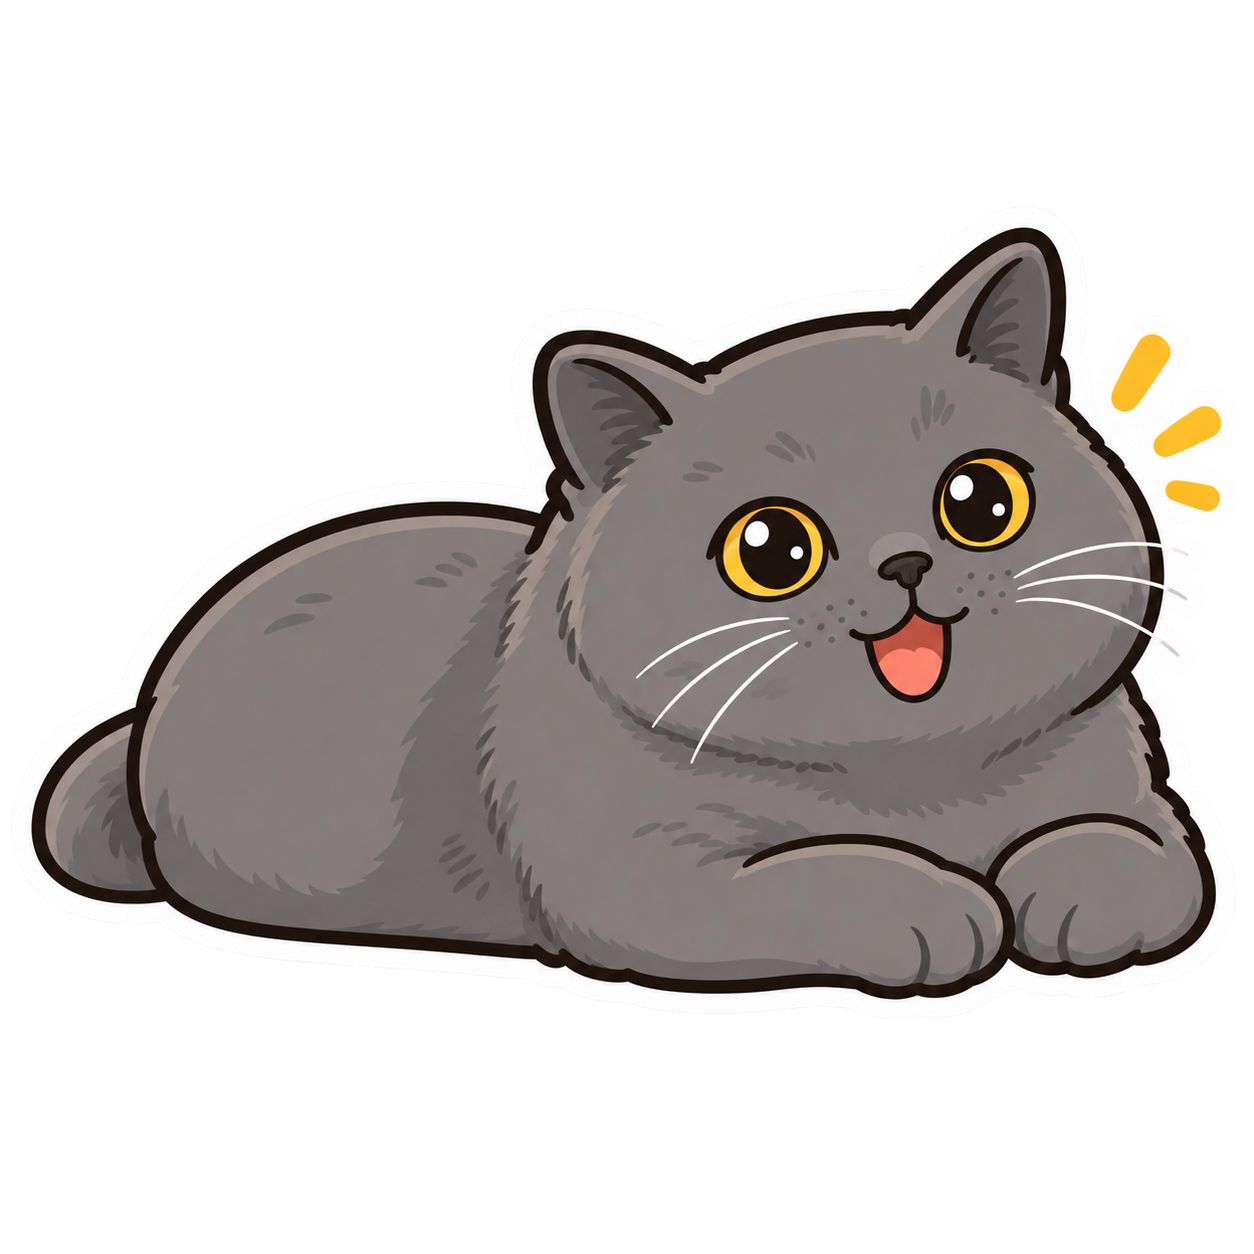
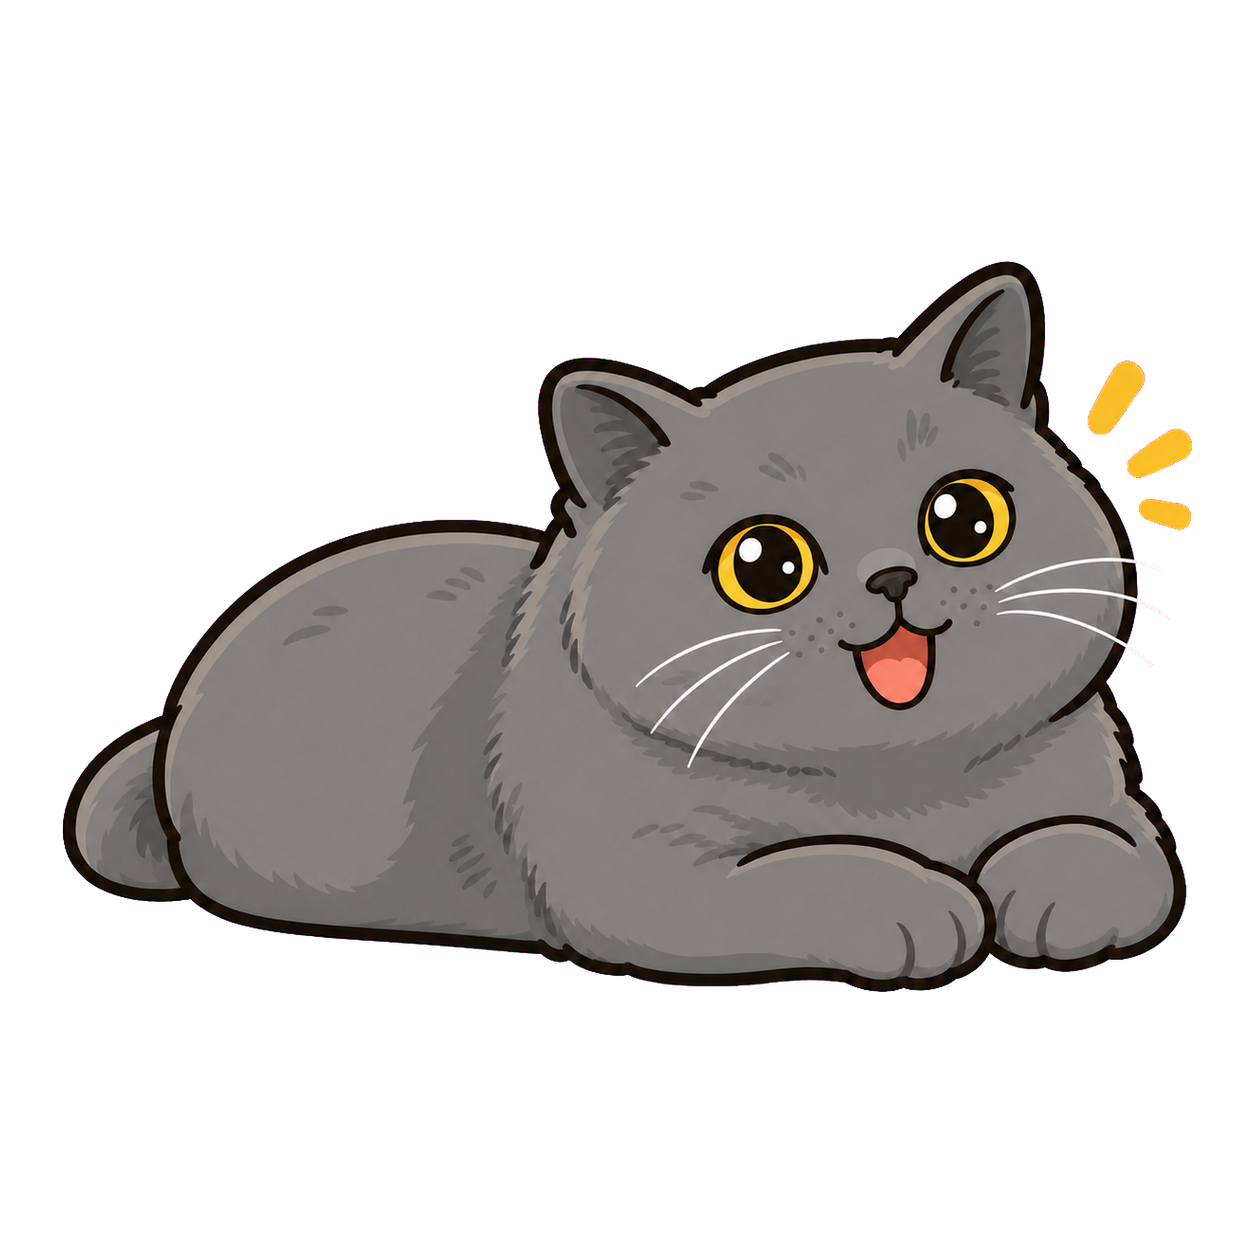
feat: add theme-specific planner cats

diff --git a/tests/test_frontend_public_planner_ui.py b/tests/test_frontend_public_planner_ui.py
@@ -3,6 +3,7 @@
 import unittest
 from inspect import getsource
 
+from PIL import Image
 from streamlit.testing.v1 import AppTest
 
 from frontend.pages.public_planner import (
@@ -11,11 +12,12 @@ from frontend.pages.public_planner import (
     MARGINAL_TAX_RATE_OPTIONS,
     MONTH_OPTIONS,
     PLANNER_GOODCAT_HERO_FILENAMES,
+    get_planner_goodcat_hero_filename,
     render_allocation_results,
     render_planner_goodcat,
     render_public_planner,
 )
-from frontend.ui.goodcat import GoodCatState
+from frontend.ui.goodcat import GOODCAT_ASSET_DIRECTORY, GoodCatState
 from frontend.ui.theme import GLOBAL_STYLES
 
 
@@ -244,35 +246,45 @@ class TestFrontendPublicPlannerUI(unittest.TestCase):
             },
         )
         self.assertEqual(
-            PLANNER_GOODCAT_HERO_FILENAMES[
-                GoodCatState.ATTENTIVE
-            ],
+            get_planner_goodcat_hero_filename(
+                GoodCatState.ATTENTIVE,
+                "light",
+            ),
             "goodcat-planner-start-hero.png",
         )
         self.assertEqual(
-            PLANNER_GOODCAT_HERO_FILENAMES[
-                GoodCatState.WORKING
-            ],
-            "goodcat-researching-hero.png",
+            get_planner_goodcat_hero_filename(
+                GoodCatState.ATTENTIVE,
+                "dark",
+            ),
+            "goodcat-planner-start-white-hero.png",
         )
         self.assertEqual(
-            PLANNER_GOODCAT_HERO_FILENAMES[
-                GoodCatState.REWARD
-            ],
-            "goodcat-result-reward-hero.png",
+            get_planner_goodcat_hero_filename(
+                GoodCatState.WORKING,
+                "dark",
+            ),
+            "goodcat-researching-white-hero.png",
         )
         self.assertEqual(
-            PLANNER_GOODCAT_HERO_FILENAMES[
-                GoodCatState.CAUTION
-            ],
-            "goodcat-warning-hero.png",
+            get_planner_goodcat_hero_filename(
+                GoodCatState.REWARD,
+                "dark",
+            ),
+            "goodcat-result-reward-white-hero.png",
         )
-        self.assertTrue(
-            all(
-                filename.endswith("-hero.png")
-                for filename in PLANNER_GOODCAT_HERO_FILENAMES.values()
-            )
-        )
+        for theme_mapping in PLANNER_GOODCAT_HERO_FILENAMES.values():
+            self.assertEqual(set(theme_mapping), {"light", "dark"})
+            for filename in theme_mapping.values():
+                self.assertTrue(filename.endswith("-hero.png"))
+                with Image.open(GOODCAT_ASSET_DIRECTORY / filename) as image:
+                    self.assertEqual(image.mode, "RGBA")
+                    self.assertEqual(image.size, (1254, 1254))
+                    self.assertEqual(image.getpixel((0, 0))[3], 0)
+                    self.assertEqual(
+                        image.getchannel("A").getextrema(),
+                        (0, 255),
+                    )
         self.assertLess(
             source.index("goodcat_slot = st.empty()"),
             source.index('"讓咪開始工作"'),

diff --git a/frontend/pages/public_planner.py b/frontend/pages/public_planner.py
@@ -54,12 +54,37 @@ MARGINAL_TAX_RATE_HELP = (
     "40%：5,190,001 元以上"
 )
 PLANNER_GOODCAT_HERO_FILENAMES = {
-    GoodCatState.ATTENTIVE: "goodcat-planner-start-hero.png",
-    GoodCatState.WORKING: "goodcat-researching-hero.png",
-    GoodCatState.READY: "goodcat-ready-hero.png",
-    GoodCatState.REWARD: "goodcat-result-reward-hero.png",
-    GoodCatState.CAUTION: "goodcat-warning-hero.png",
+    GoodCatState.ATTENTIVE: {
+        "light": "goodcat-planner-start-hero.png",
+        "dark": "goodcat-planner-start-white-hero.png",
+    },
+    GoodCatState.WORKING: {
+        "light": "goodcat-researching-hero.png",
+        "dark": "goodcat-researching-white-hero.png",
+    },
+    GoodCatState.READY: {
+        "light": "goodcat-ready-hero.png",
+        "dark": "goodcat-ready-white-hero.png",
+    },
+    GoodCatState.REWARD: {
+        "light": "goodcat-result-reward-hero.png",
+        "dark": "goodcat-result-reward-white-hero.png",
+    },
+    GoodCatState.CAUTION: {
+        "light": "goodcat-warning-hero.png",
+        "dark": "goodcat-warning-white-hero.png",
+    },
 }
+
+
+def get_planner_goodcat_hero_filename(
+    state: GoodCatState,
+    theme_type: str,
+) -> str:
+    """依規劃狀態與主題挑選一致情境的灰貓或白貓。"""
+
+    theme_key = "dark" if theme_type == "dark" else "light"
+    return PLANNER_GOODCAT_HERO_FILENAMES[state][theme_key]
 
 
 def allocation_goodcat_feedback(
@@ -148,7 +173,10 @@ def render_planner_goodcat(
 
     presentation = get_goodcat_presentation(state)
     hero_asset_path = presentation.asset_path.with_name(
-        PLANNER_GOODCAT_HERO_FILENAMES[state]
+        get_planner_goodcat_hero_filename(
+            state,
+            st.context.theme.type,
+        )
     )
 
     slot.empty()

diff --git a/frontend/assets/goodcat/README.md b/frontend/assets/goodcat/README.md
@@ -22,14 +22,19 @@ terms and this repository's license. Keep this provenance note with the files.
 | `goodcat-ready.png` | `READY` | Alert stance and raised tail for completion |
 | `goodcat-caution.png` | `CAUTION` | Sideways ears for missing data, risk or shortfall |
 | `goodcat-attentive-hero.png` | `ATTENTIVE` | Losslessly cropped planner hero on the shared hero canvas |
-| `goodcat-planner-start-hero.png` | `ATTENTIVE` | Bright-eyed first illustration shown on the dividend planner |
+| `goodcat-planner-start-hero.png` | `ATTENTIVE` | Borderless gray first illustration shown in the light-theme dividend planner |
+| `goodcat-planner-start-white-hero.png` | `ATTENTIVE` | Matching borderless white illustration shown in the dark-theme dividend planner |
 | `goodcat-working-hero.png` | `WORKING` | Losslessly cropped planner hero on the shared hero canvas |
-| `goodcat-researching-hero.png` | `WORKING` | Laptop-and-books illustration shown while the planner checks data |
-| `goodcat-ready-hero.png` | `READY` | Losslessly cropped planner hero on the shared hero canvas |
+| `goodcat-researching-hero.png` | `WORKING` | Borderless gray laptop-and-books illustration shown while the light-theme planner checks data |
+| `goodcat-researching-white-hero.png` | `WORKING` | Matching borderless white researching illustration used in the dark theme |
+| `goodcat-ready-hero.png` | `READY` | Borderless gray ready-state illustration used in the light theme |
+| `goodcat-ready-white-hero.png` | `READY` | Matching borderless white ready-state illustration used in the dark theme |
 | `goodcat-reward-hero.png` | `REWARD` | Completed-work planner hero, happily waiting for a reward without showing food |
-| `goodcat-result-reward-hero.png` | `REWARD` | Treat-themed illustration shown after a successful or partial planner result |
+| `goodcat-result-reward-hero.png` | `REWARD` | Borderless gray treat-themed result illustration used in the light theme |
+| `goodcat-result-reward-white-hero.png` | `REWARD` | Matching borderless white result illustration used in the dark theme |
 | `goodcat-caution-hero.png` | `CAUTION` | Losslessly cropped planner hero on the shared hero canvas |
-| `goodcat-warning-hero.png` | `CAUTION` | Worried-cat illustration shown for invalid input, missing data or no feasible result |
+| `goodcat-warning-hero.png` | `CAUTION` | Borderless gray warning illustration used in the light theme |
+| `goodcat-warning-white-hero.png` | `CAUTION` | Matching borderless white warning illustration used in the dark theme |
 
 `goodcat-attentive.png` is retained as the approved rollback asset. The V3
 attentive variant was generated from the accepted character reference on
@@ -48,6 +53,11 @@ The theme-specific home pair was generated from the selected sleeping-cat
 reference on 2026-08-31. Both variants use the same sleeping situation and
 expression without an outer white sticker border. The gray cat is used in the
 light theme and the white cat is used in the dark theme.
+
+The five dividend-planner state pairs were generated from their approved
+V5-1A references on 2026-09-01. Each pair preserves the same state, expression
+and props, removes the outer sticker border, and uses a gray cat in the light
+theme and a white cat in the dark theme.
 
 All production files are PNG images with real alpha transparency. Character
 images supplement visible Traditional Chinese state text; they never replace
